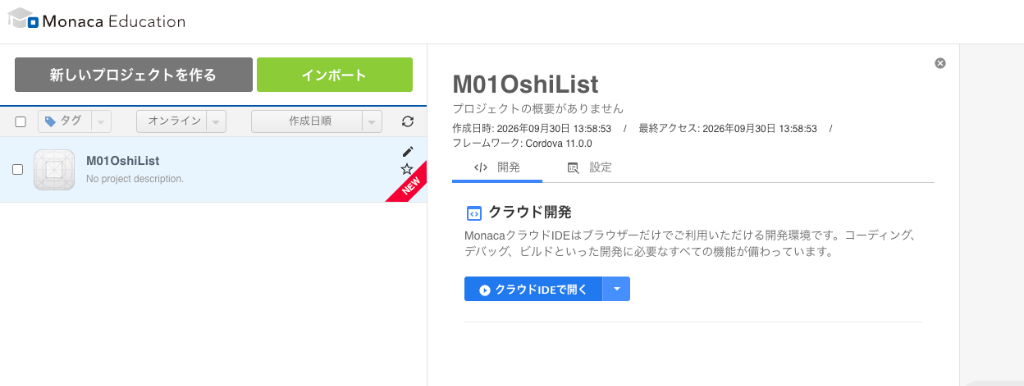
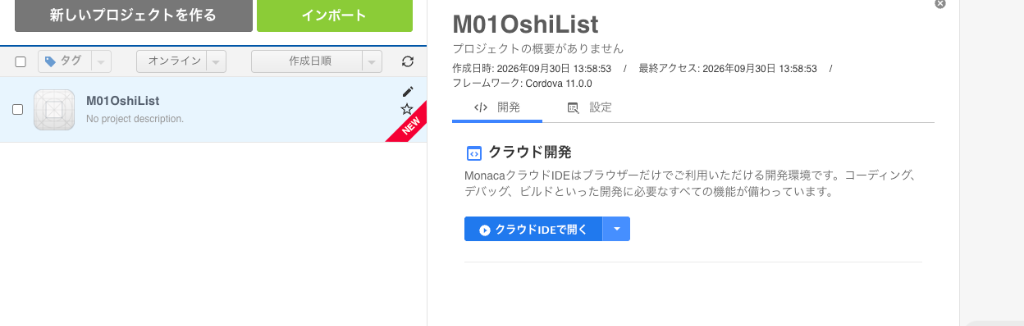
fix(docs): 通常版Monacaとの相違を防ぐため、教育版ヘッダーをクロップして除外

diff --git a/docs/oshi-list/index.html b/docs/oshi-list/index.html
@@ -68,7 +68,7 @@
 <figure><img src="images/monaca-project-create.png" width="625" height="535" alt="プロジェクト名にM01OshiListを入力し作成ボタンを押す画面"><figcaption>プロジェクト名に <code>M01OshiList</code> と入力し、<code>作成</code> を選びます。</figcaption></figure>
 </li>
 <li>プロジェクト一覧から <code>M01OshiList</code> を選び、<code>クラウドIDEで開く</code> を押します。既に自分の同名プロジェクトがあれば、その続きを開きます。
-<figure><img src="images/monaca-open-ide.png" width="1024" height="386" alt="プロジェクト一覧でM01OshiListのクラウドIDEで開くを選ぶ画面"><figcaption>プロジェクト一覧から <code>M01OshiList</code> を選び、<code>クラウドIDEで開く</code> を押します。</figcaption></figure>
+<figure><img src="images/monaca-open-ide.png" width="1024" height="326" alt="プロジェクト一覧でM01OshiListのクラウドIDEで開くを選ぶ画面"><figcaption>プロジェクト一覧から <code>M01OshiList</code> を選び、<code>クラウドIDEで開く</code> を押します。</figcaption></figure>
 </li>
 <li>クラウドIDEが開いたら、左側のファイル一覧で <code>www/index.html</code> と <code>www/css/style.css</code> を探します。<code>components</code>、<code>res</code>、設定ファイルはそのまま使います。
 <figure><img src="images/monaca-ide-initial.png" width="1024" height="449" alt="Monaca クラウド IDEの初期画面。左側にファイル一覧、右側にindex.htmlのエディタが表示されている"><figcaption>クラウドIDEが開きます。左側のファイル一覧で <code>www/index.html</code> や <code>www/css/style.css</code> を確認します。</figcaption></figure>
